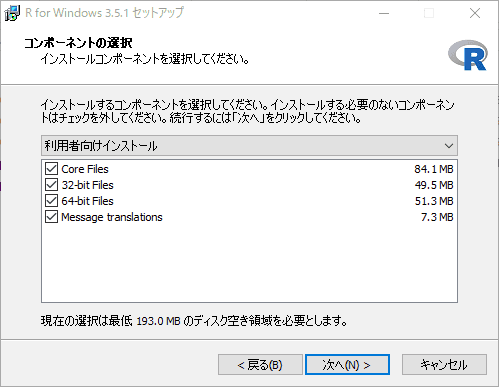
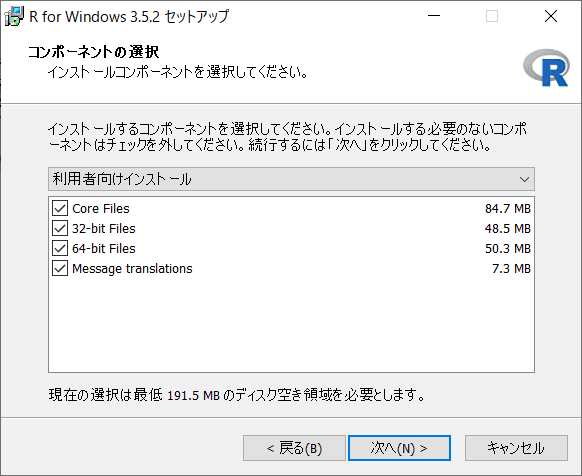
update howto
and add blog

diff --git a/_works/hw_r_install.md b/_works/hw_r_install.md
@@ -35,17 +35,18 @@ Windows用のページでは、「install R for the first time」と書かれた
 
 Windows用のセットアップファイルがダウンロード出来るページに切り替わります。
 
-ここで、「Download R 3.5.1 for Windows」と書かれたリンクをクリックして、セットアップ用のファイルをダウンロードし、保存します。
-(「3.5.1」と書かれている部分は現在配布中のRバージョンなので、異なっていても問題ありません。)
+ここで、「Download R 3.5.x for Windows」と書かれたリンクをクリックして、セットアップ用のファイルをダウンロードし、保存します。
+「3.5.x」のxの部分は、具体的な数字が入りますが時期によりその数字が異なります。
+その時に表示されているものをインストールして構いません。
 
 ![cran](/assets/images/htr/cran003.png){: .align-center}
 
-ダウンロードフォルダ等に「R-3.5.1-win.exe」と書かれたファイルがダウンロードされているはずです。
+ダウンロードフォルダ等に「R-3.5.x-win.exe」と書かれたファイルがダウンロードされているはずです。
 
 
 ## インストール
 
-ダウンロードされたセットアップファイル「R-3.5.1-win.exe」をダブルクリックします。
+ダウンロードされたセットアップファイル「R-3.5.x-win.exe」をダブルクリックします。
 
 ![setupfile](/assets/images/htr/setupfile001.png){: .align-center}
 {: .text-center}

diff --git a/_posts/2019-01-26-newyear.md b/_posts/2019-01-26-newyear.md
@@ -1,0 +1,26 @@
+---
+author: syunsuke
+title: "いろいろバージョンアップ"
+---
+
+2018年の年末に、Rのバージョンが3.5.2へマイナーバージョンアップしました。
+気持ちよく最新版をインストールしましょう。
+
+また、retiパッケージは、大幅にコードを書き換えました。
+今のところ、retiパッケージはそれほど使われていないと思いますので、
+関数名も大幅に変更しています。
+もし、ご利用してくださっている方がいる場合、確認してください。
+
+現在、小委員会で3月の初めにRStudioを使ってグラフ等を見るための
+初心者研修会を計画しています。
+この研修は、少人でパソコン持ち込みの実体験研修になります。
+
+私個人としては、今までRは使ったことがないけれど、
+興味があるという方がとりあえず、自分で不動産取引価格情報のデータを
+ダウンロードして、それを表として、グラフとして観察できるようになれば
+良いかなと思っていますが、
+一方で、委員会では様々な意見が交わされており研修の内容については模索中です。
+
+なんにせよ、こういう会を催せば、鑑定士の先生方の中でパソコン好きなな人を
+見つけて、知り合いになれるんじゃないかなーという点を楽しみにしていたりします。
+

diff --git a/_pages/howto.md b/_pages/howto.md
@@ -5,7 +5,13 @@ title: データ分析に挑戦してみよう
 ---
 
 ## Rをインストールしてみよう
-データ分析に利用するツールは色々ありますが、ここでは「Ｒ言語」をWindows上で利用するための環境整備の仕方を紹介します。
+データ分析に利用するツールは色々ありますが、ここでは「Ｒ言語」をWindows10上で利用するための環境整備の仕方を紹介します。
+
+（注意）windows10以外では上手く行かないことがあります。
+Windows10以外の方から、RStudioの利用やパッケージのインストールに関して不具合が出る場合があることが報告されています。
+特にWindows8系統で、ホームディレクトリの名前が日本語である場合、RStudioが起動しないようです。
+その様な場合には、アルファベットのみからなるアカウント名を別途作成し、そのアカウント上で作業を行ってみてください。
+
 
 Rを使うためには、まず、「Rの本体」をインストールします。
 次に、Rのスクリプトを書いたり、グラフを描画させたりするのが簡単になる「RStudio」と呼ばれる開発環境をインストールします。
@@ -22,6 +28,7 @@ Rを使うためには、まず、「Rの本体」をインストールします
 
 ## GitHubのデータをパソコンにダウンロードしよう
 準備中
+
 
 
 

diff --git a/_works/hw_rstudio_install.md b/_works/hw_rstudio_install.md
@@ -12,6 +12,16 @@ toc_label: "目次"
 [https://www.rstudio.org](https://www.rstudio.org)
 {: .text-center}
 
+
+（注意）windows10を使う
+
+RStudioの利用に関して、Windows10以外の方は起動に不具合がある場合があることが報告されています。
+特にWindows8系統の場合、ホームディレクトリ名が日本語である場合、RStudioが起動しないことがあるようです。
+その様な場合には、アルファベットのみからなるアカウント名を別途作成し、
+そのアカウントからRStudioを立ち上げてみてください。
+
+
+
 ## セットアップファイルのダウンロード
 
 トップページを少し下へスクロールして進むと、RStudioのダウンロードリンクがあるので、
